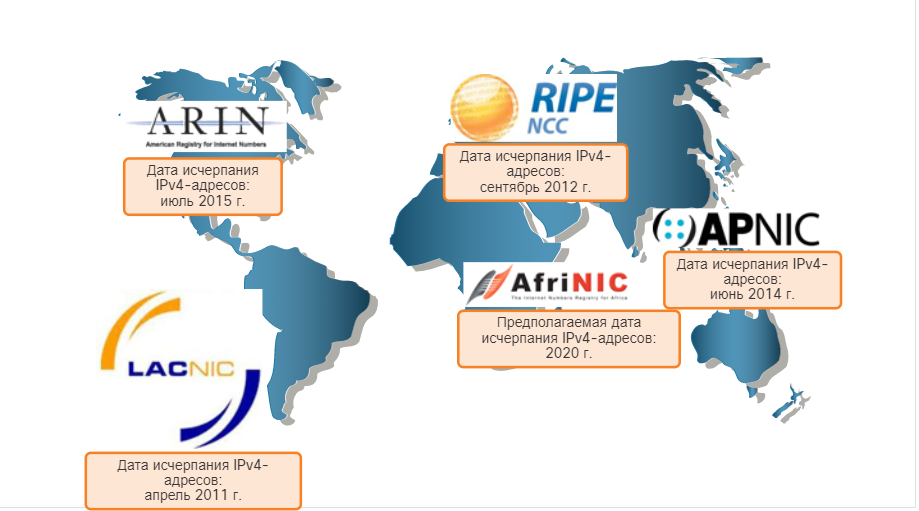
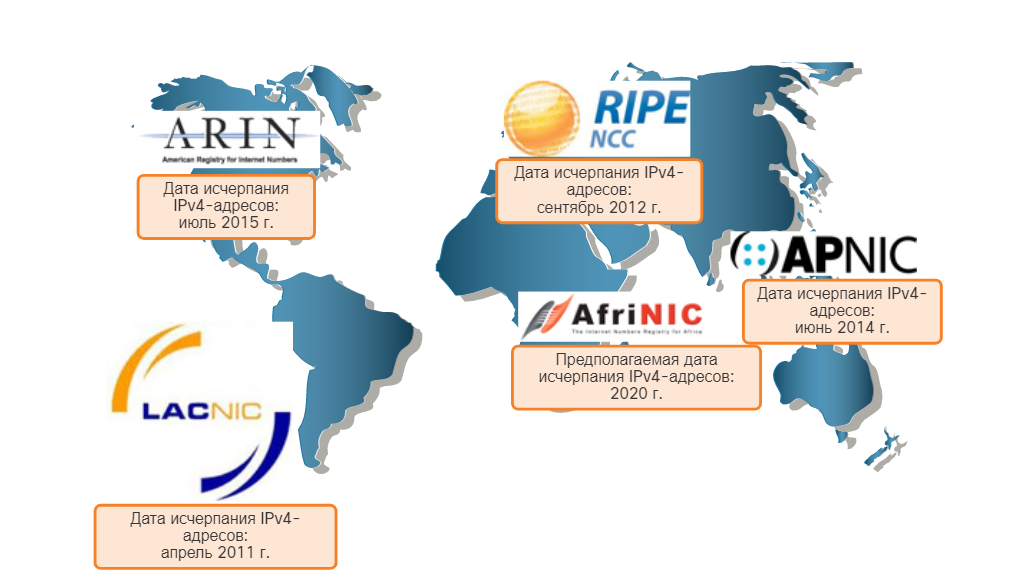
add 12.1 chapter

diff --git a/12.1-IPv4-Issues/lecture.md b/12.1-IPv4-Issues/lecture.md
@@ -2,6 +2,7 @@
 
 <!-- 12.1.1 -->
 ## Потребность в IPv6
+
 Вы уже знаете, что адреса IPv4 заканчиваются. Вот почему вам нужно узнать об IPv6.
 
 Протокол IPv6 был разработан как преемник протокола IPv4. IPv6 имеет большее 128-битное адресное пространство, что достаточно для 340 ундециллионов адресов. Однако протокол IPv6 — это не только большее число адресов.
@@ -11,8 +12,13 @@
 Сокращение адресного пространства протокола IPv4 — основной стимулирующий фактор для перехода к использованию IPv6. По мере того как Африка, Азия и другие регионы планеты все больше нуждаются в подключении к сети Интернет, остается все меньше IPv4-адресов, чтобы соответствовать таким темпам развития. Как показано на рисунке, у четырех из пяти региональных интернет-регистраторов (RIR) не осталось свободных IPv4-адресов.
 
 ### Даты исчерпания IPv4 RIR
+
 ![](./assets/12.1.1.png)
 <!-- /courses/itn-dl/aeed55b2-34fa-11eb-ad9a-f74babed41a6/af2332c0-34fa-11eb-ad9a-f74babed41a6/assets/2e412393-1c25-11ea-81a0-ffc2c49b96bc.svg -->
+
+<!--
+На графике показана глобальная карта пяти региональных интернет-реестров и там даты исчерпания IPv4. Дата исчерпания IPv4 ARINs - июль 2015 года, данные об исчерпании NCC RIPE - сентябрь 2012 года, дата исчерпания APNIC - июнь 2014 года, дата исчерпания LACNIC - апрель 2011 года, а прогнозируемая дата исчерпания AfriNIC - 2020 года.
+-->
 
 Теоретическое максимальное количество IPv4-адресов — 4,3 миллиарда. Частные адреса вместе с механизмом преобразования сетевых адресов (NAT) позволяли какое-то время замедлить процесс истощения адресного пространства IPv4. Однако механизм преобразования сетевых адресов (NAT) имеет определенные ограничения, которые ухудшают коммуникации в одноранговой сети.
 
@@ -26,27 +32,46 @@
 
 В связи с распространением Интернета ограниченным адресным пространством IPv4, проблемами с преобразованием сетевых адресов и проникновением Интернета в нашу жизнь пришло время для перехода на протокол IPv6.
 
-
 <!-- 12.1.2 -->
-
 ## Совместное использование протоколов IPv4 и IPv6
+
 Точной даты для перехода на протокол IPv6 нет. Как IPv4, так и IPv6 будут сосуществовать в ближайшем будущем, и переход займет несколько лет. Специалисты IETF создали различные протоколы и инструменты, которые позволяют сетевым администраторам постепенно переводить свои сети на протокол IPv6. Методы перехода можно разделить на 3 категории.
 
 ### Двойной стек
+
 Протоколы IPv4 и IPv6 можно одновременно использовать в одной сети посредством двойного стека. Устройства с двойным стеком одновременно работают с протокольными стеками IPv4 и IPv6. Известный как собственный IPv6, это означает, что сеть клиента имеет подключение IPv6 к своему Интернет-провайдеру и может получать доступ к контенту, найденному в Интернете, через IPv6.
+
 ![](./assets/12.1.2-1.png)
 <!-- /courses/itn-dl/aeed55b2-34fa-11eb-ad9a-f74babed41a6/af2332c0-34fa-11eb-ad9a-f74babed41a6/assets/2e4171b2-1c25-11ea-81a0-ffc2c49b96bc.svg -->
 
+<!--
+Физическая топология, показывающая три ПК с двумя стеками и маршрутизатор с двумя стеками
+-->
 
 ### Туннелирование
+
 Туннелирование — это способ передачи IPv6-пакета по IPv4-сети. IPv6-пакет инкапсулируется внутрь IPv4-пакета, как и другие типы данных.
+
 ![](./assets/12.1.2-2.png)
 <!-- /courses/itn-dl/aeed55b2-34fa-11eb-ad9a-f74babed41a6/af2332c0-34fa-11eb-ad9a-f74babed41a6/assets/2e4198c1-1c25-11ea-81a0-ffc2c49b96bc.svg -->
 
+<!--
+Топология физической сети показывает два только IPv6 ПК, подключенных к маршрутизаторам с двумя стеками, которые соединены туннелем через облако только IPv4.
+-->
 
 ### Преобразование
+
 Преобразование сетевых адресов 64 (NAT64) позволяет устройствам под управлением IPv6 обмениваться данными с устройствами под управлением IPv4 посредством способа преобразования, аналогичного NAT для IPv4. Пакет IPv6 преобразуется в пакет IPv4, а пакет IPv4 преобразуется в пакет IPv6.
+
 ![](./assets/12.1.2-3.png)
 <!-- /courses/itn-dl/aeed55b2-34fa-11eb-ad9a-f74babed41a6/af2332c0-34fa-11eb-ad9a-f74babed41a6/assets/2e41bfd1-1c25-11ea-81a0-ffc2c49b96bc.svg -->
 
+<!--
+Топология физической сети показывает в сети только IPv6 слева связь с сетью только IPv4 справа через маршрутизатор NAT64.
+-->
+
 **Примечание:** Туннелирование и трансляция предназначены для перехода на собственный IPv6 и должны использоваться только там, где это необходимо. Конечная цель — это естественный обмен данными в формате IPv6 между источником и назначением.
+
+<!-- 12.1.3 -->
+<!-- quiz -->
+
